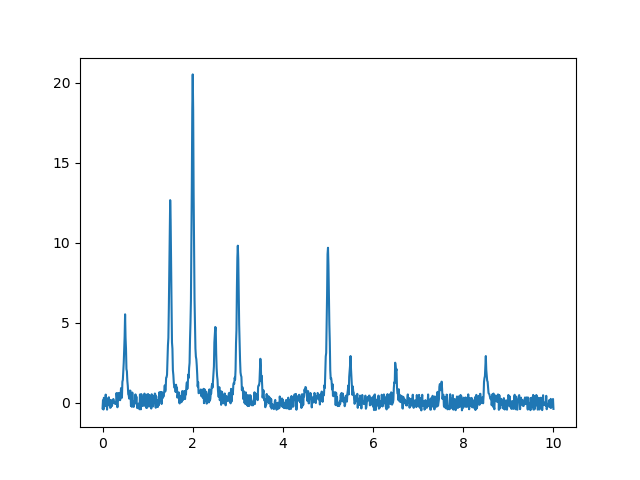
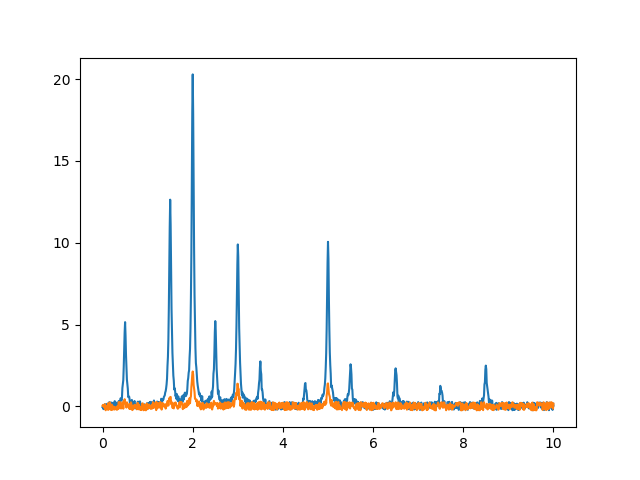
add std spectra plotting

diff --git a/spectra.py b/spectra.py
@@ -8,7 +8,7 @@ from random import random
 
 SW = (0.0, 10.0)
 LB = 0.1
-NF = 1
+NF = 0.5
 
 def points(sw=SW, step=0.01):
     return np.arange(sw[0], sw[1] + step, step)
@@ -28,6 +28,14 @@ def spectrum(peak_list, points):
         return peak(peak_list[0, 0], peak_list[0,1], points)
     return peak(peak_list[0, 0], peak_list[0,1], points) + spectrum(peak_list[1:], points)
     
+def std_peak(x0, coupling, points, std):
+    return peak(x0, coupling, points) * std
+    
+def std_spectrum(peak_list, points, std_list):
+    if(len(peak_list) == 1):
+        return std_peak(peak_list[0, 0], peak_list[0,1], points, std_list[0])
+    return std_peak(peak_list[0, 0], peak_list[0,1], points, std_list[0]) + std_spectrum(peak_list[1:], points, std_list[1:])    
+    
 def noisify(spectrum, nf=NF):
     F = np.vectorize(lambda x:x + ((0.5 - random()) * nf))
     return F(spectrum)
@@ -39,10 +47,15 @@ peak_list = np.array([
     [4, [2]],
     [6, [2,2,4,5]]
     ], dtype=object)
+std_list = [0.05, 0.1, 0.13, 0.02]
     
 spec = spectrum(peak_list, shift_points)
 noisy_spec = noisify(spec)
 
+std_spec = std_spectrum(peak_list, shift_points, std_list)
+noisy_std = noisify(std_spec)
+
 plt.figure()
 sns.lineplot(x=shift_points, y=noisy_spec)
+sns.lineplot(x=shift_points, y=noisy_std)
 plt.savefig('lorentzian.png')
